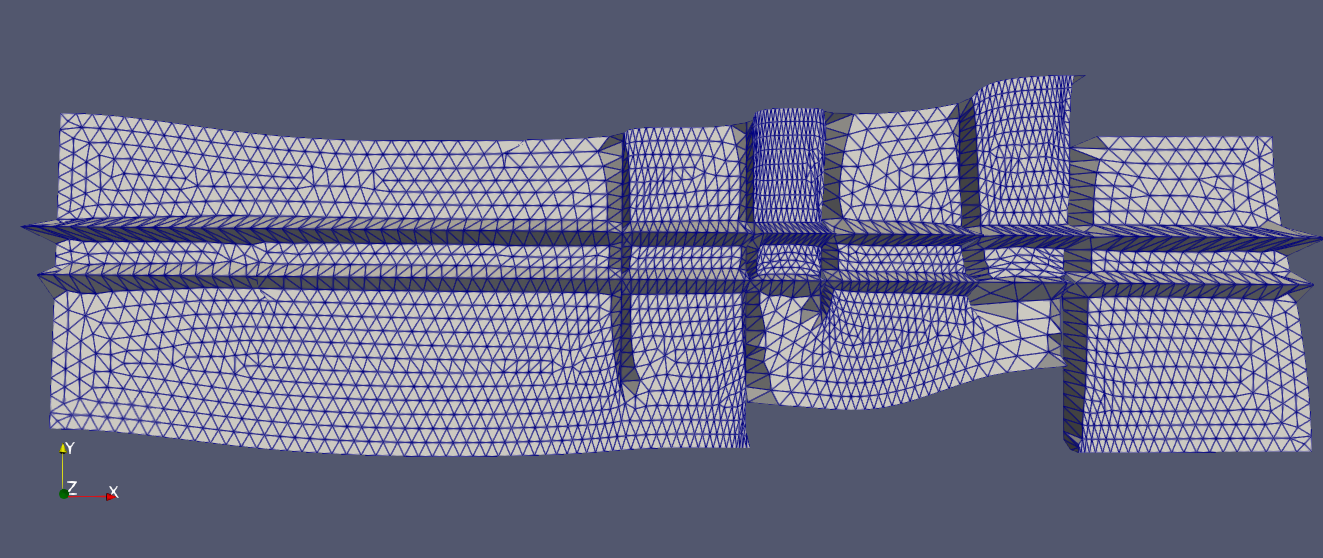
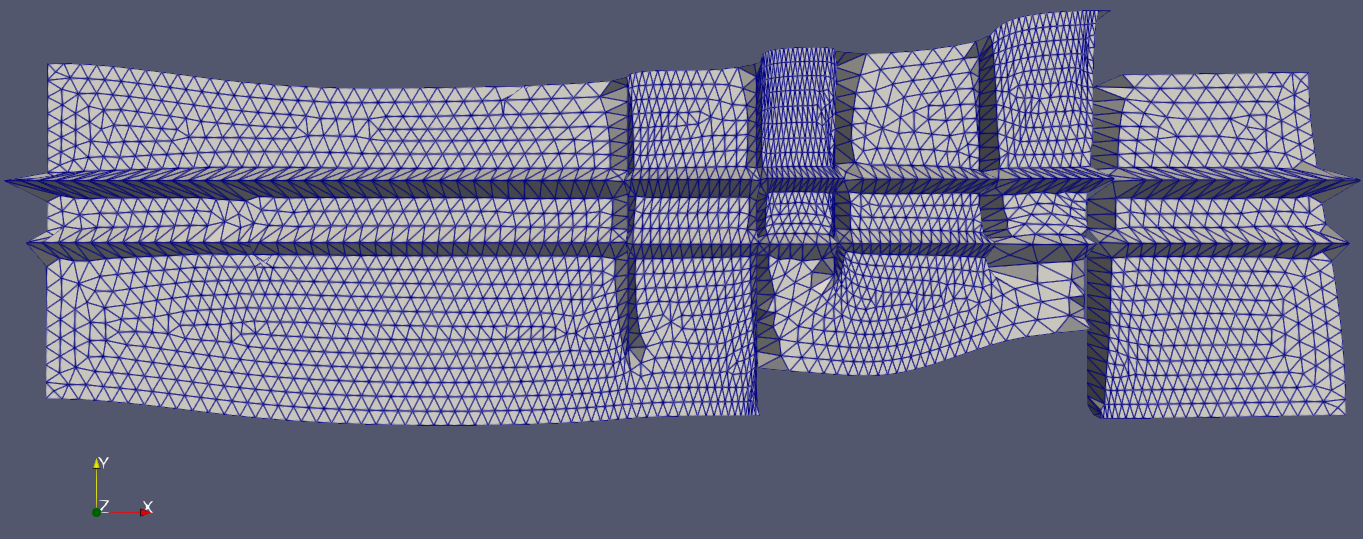
Working version to send

diff --git a/main.py b/main.py
@@ -1,6 +1,5 @@
 from mesh import Mesh
 import importlib
-import numpy as np
 import scipy.sparse
 from scipy.sparse.linalg import lsmr
 
@@ -11,63 +10,130 @@ attr = importlib.import_module(model + ".attributes")
 m.write_vtk("output_ref.vtk")
 m.write_obj("output_ref.obj")
 
+# Lists of list of vertices on the same horizon.
+# Assuming that the horizon_id are consecutive starting from 0.
+vertices_on_horizons = [
+    [] for horizon_id in set(attr.horizon_id) if horizon_id >= 0
+]
+
+# List of the vertices on a fault
+vertices_on_faults = []
+
+for corner in range(m.ncorners):
+    if attr.horizon_id[corner] >= 0:
+        vertices_on_horizons[attr.horizon_id[corner]].append(m.org(corner))
+    if attr.is_fault[corner]:
+        vertices_on_faults.append(m.org(corner))
+        # As faults can be a border, we need to add the destination vertex as
+        # well because it could be only the destination vertex of a fault
+        # corner. # There will be duplicata so we will need to handle that.
+        vertices_on_faults.append(m.dst(corner))
+
+# List of intersection lists between vertices on horizons and vertices on
+# faults.
+vertices_on_faulted_horizons = [[] for _ in range(len(vertices_on_horizons))]
+
+for horizon_id, vertices_on_horizon in enumerate(vertices_on_horizons):
+    for horizon_vertex in vertices_on_horizon:
+        for fault_vertex in vertices_on_faults:
+            if horizon_vertex == fault_vertex:
+                vertices_on_faulted_horizons[horizon_id].append(
+                    horizon_vertex.item()
+                )
+
+# Remove duplicates
+for horizon_id in range(len(vertices_on_faulted_horizons)):
+    vertices_on_faulted_horizons[horizon_id] = list(
+        set(vertices_on_faulted_horizons[horizon_id])
+    )
+
+# Number of additionnal constraints
+n_additional_constraints = sum(
+    max(len(vertices_on_faulted_horizon) - 1, 0)
+    for vertices_on_faulted_horizon
+    in vertices_on_faulted_horizons
+)
+
 # Flatten the horizons
-dim = 1
-A = scipy.sparse.lil_matrix((m.ncorners, m.nverts))
+dim = 1  # We work on y-coordinate
+A = scipy.sparse.lil_matrix(
+    (m.ncorners + n_additional_constraints, m.nverts)
+)
 b = [0] * A.shape[0]
 
-row = 0
-weight = 100
+weight_keeping_half_edge_length = 1
+weight_flattening_continuous_horizons = 100
+weight_flattening_faulted_horizons = 10
+
+# Continuous horizon part
 for c in range(m.ncorners):
     distance = m.V[m.dst(c)][dim] - m.V[m.org(c)][dim]
-    A[c, m.dst(c)] = 1
-    A[c, m.org(c)] = -1
-    b[c] = distance * 1
+
+    A[c, m.dst(c)] = weight_keeping_half_edge_length
+    A[c, m.org(c)] = -weight_keeping_half_edge_length
+
+    b[c] = distance * weight_keeping_half_edge_length
+
     if attr.horizon_id[c] >= 0:
-        A[c, m.org(c)] = weight
-        b[c] = (attr.horizon_id[c] / 37.76) * weight
-        # BRICOLAGE
-        if model == "shell":
-            A[c, m.dst(c)] = -weight
-            b[c] = 0
+        A[c, m.org(c)] = weight_flattening_continuous_horizons
+        A[c, m.dst(c)] = -weight_flattening_continuous_horizons
+        b[c] = 0
 
+# Faulted horizon part
+offset = 0
+for horizon_id, vertices_on_faulted_horizon in enumerate(
+    vertices_on_faulted_horizons
+):
+    for vertex_idx in range(len(vertices_on_faulted_horizon) - 1):
+        A[
+            m.ncorners + offset + vertex_idx,
+            vertices_on_faulted_horizon[vertex_idx]
+        ] = weight_flattening_faulted_horizons
+        A[
+            m.ncorners + offset + vertex_idx,
+            vertices_on_faulted_horizon[vertex_idx + 1]
+        ] = -weight_flattening_faulted_horizons
 
-print(f"A.shape = {A.shape}")
-print(f"b.shape = {len(b)}")
-A = A.tocsr()  # convert to compressed sparse row format for faster matrix-vector muliplications
-x = lsmr(A, b)[0]  # call the least squares solver
-for i in range(m.nverts):  # apply the computed flattening
+        b[m.ncorners + offset + vertex_idx] = 0
+
+    offset += len(vertices_on_faulted_horizon) - 1
+
+A = A.tocsr()
+x = lsmr(A, b)[0]
+for i in range(m.nverts):
     m.V[i][dim] = x[i]
 
 # Flatten the faults
-dim = 0
-A = scipy.sparse.lil_matrix((2*m.ncorners, m.nverts))
+dim = 0  # We work on x-coordinate
+A = scipy.sparse.lil_matrix((2 * m.ncorners, m.nverts))
 b = [0] * A.shape[0]
 
-row = 0
-weight = 100
+weight_keeping_half_edge_length
+weight_flattening_faults = 100
+weight_connecting_faults = 1
 for c in range(m.ncorners):
     distance = m.V[m.dst(c)][0] - m.V[m.org(c)][0]
-    A[c, m.dst(c)] = 1
-    A[c, m.org(c)] = -1
-    b[c] = distance * 1
+
+    A[c, m.dst(c)] = weight_keeping_half_edge_length
+    A[c, m.org(c)] = -weight_keeping_half_edge_length
+
+    b[c] = distance * weight_keeping_half_edge_length
+
     if attr.is_fault[c]:
-        A[c, m.dst(c)] = weight
-        A[c, m.org(c)] = -weight
+        A[c, m.dst(c)] = weight_flattening_faults
+        A[c, m.org(c)] = -weight_flattening_faults
+
         b[c] = 0
+
         if attr.fault_opposite[c] > -1:
-            A[2*c, m.dst(attr.fault_opposite[c])] = 1
-            A[2*c, m.org(c)] = -1
+            A[2 * c, m.dst(attr.fault_opposite[c])] = weight_connecting_faults
+            A[2 * c, m.org(c)] = -weight_connecting_faults
             b[c] = 0
 
-
-print(f"A.shape = {A.shape}")
-print(f"b.shape = {len(b)}")
-A = A.tocsr()  # convert to compressed sparse row format for faster matrix-vector muliplications
-x = lsmr(A, b)[0]  # call the least squares solver
-for i in range(m.nverts):  # apply the computed flattening
+A = A.tocsr()
+x = lsmr(A, b)[0]
+for i in range(m.nverts):
     m.V[i][dim] = x[i]
-
 
 m.write_obj("output.obj")
 m.write_vtk("output.vtk")

diff --git a/test_attributes.py b/test_attributes.py
@@ -1,7 +1,7 @@
 from mesh import Mesh
 import importlib
 
-model = "chevron"
+model = "ifp2"
 # m = Mesh(model+"/slice.obj")
 m = Mesh("output.obj")
 attr = importlib.import_module(model + ".attributes")
